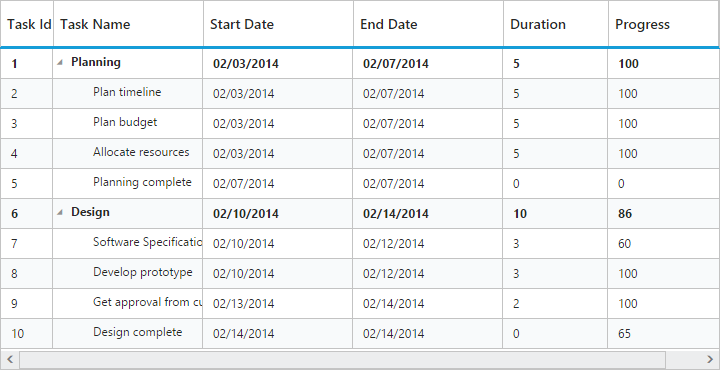
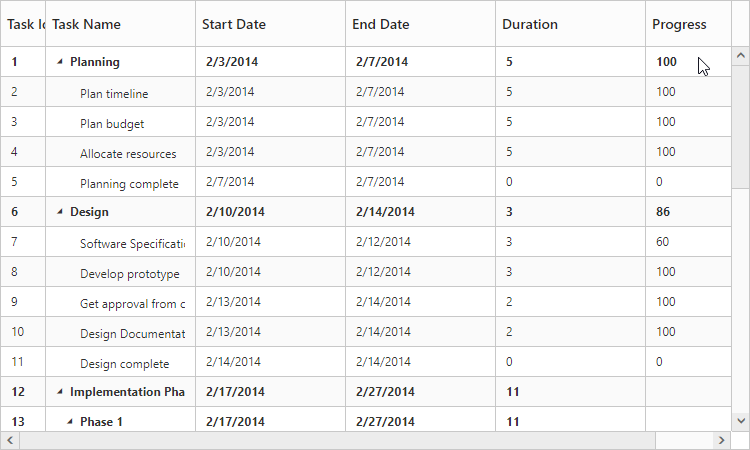
UG Document for TreeGrid Load on demand support

diff --git a/js/TreeGrid/Data-Binding.md b/js/TreeGrid/Data-Binding.md
@@ -86,73 +86,38 @@ TreeGrid is rendered from Self-Referential data structures by providing two fiel
 
 {% highlight js %}
 
-     var projectData1 = [
-
-         {
-             taskID: 1,
-             taskName: "Task 1",
-             startDate: "02/03/2014",
-             endDate: "03/07/2014",
-             duration: 5
-         },
-
-         {
-             taskID: 2,
-             pId: 1,
-             taskName: "Child Task 1",
-             startDate: "02/03/2014",
-             endDate: "02/07/2014",
-             duration: 5
-         },
-
-         {
-             taskID: 3,
-             pId: 1,
-             taskName: "Child Task 2",
-             startDate: "02/03/2014",
-             endDate: "02/07/2014",
-             duration: 5,
-             progress: "100"
-         },
-
-         {
-             taskID: 22,
-             pId: 2,
-             taskName: "Sub Child Task 1",
-             startDate: "02/03/2014",
-             endDate: "02/07/2014",
-             duration: 5
-         },
-
-         {
-             taskID: 23,
-             pId: 2,
-             taskName: "Sub Child Task 2",
-             startDate: "02/03/2014",
-             endDate: "02/07/2014",
-             duration: 5,
-             progress: "100"
-         },
-    
-         //...
-
-     ];
+      var projectData = [{
+        "TaskID": 1,
+        "TaskName": "Parent Task 1",
+        "StartDate": new Date("02/23/2014"),
+        "EndDate": new Date("02/27/2014"),
+        "Progress": "40"
+    },
+    {
+        "TaskID": 2,
+        "TaskName": "Child Task 1",
+        "StartDate": new Date("02/23/2014"),
+        "EndDate": new Date("02/27/2014"),
+        "Progress": "40",
+        "parentID": 1
+    },
+    //...
+];
 
      $(function () {
 
             $("#TreeGridContainer").ejTreeGrid({
-                dataSource: projectData1,
-                childMapping: "subtasks",
+                dataSource: projectData,
                 treeColumnIndex:1,
-                idMapping:"taskID",
-                parentIdMapping:"pId",
+                idMapping:"TaskID",
+                parentIdMapping:"parentID",
                 columns: [
-                    { field: "taskID", headerText: "Task Id", width: "45" },
-                    { field: "taskName", headerText: "Task Name" },
-                    { field: "startDate", headerText: "Start Date" },
-                    { field: "endDate", headerText: "End Date" },
-                    { field: "duration", headerText: "Duration" },
-                    { field: "progress", headerText: "Progress" }
+                    { field: "TaskID", headerText: "Task Id", width: "45" },
+                    { field: "TaskName", headerText: "Task Name" },
+                    { field: "StartDate", headerText: "Start Date" },
+                    { field: "EndDate", headerText: "End Date" },
+                    { field: "Duration", headerText: "Duration" },
+                    { field: "Progress", headerText: "Progress" }
                 ]
             })
         });
@@ -163,4 +128,115 @@ TreeGrid is rendered from Self-Referential data structures by providing two fiel
 The following screenshot shows the output of the above steps,
 
 ![](/js/TreeGrid/Data-Binding_images/Data-Binding_img2.png)
+
+## Remote data binding
+
+### Load on demand
+
+TreeGrid provides `Load on Demand` support for rendering remote data. Load on demand is considered in TreeGrid for the following actions, 
+
+* Expanding root nodes.
+* Navigating pages, with paging enabled in TreeGrid.
+
+When load on demand is enabled, all the root nodes are rendered in collapsed state at initial load.
+
+When load on demand support is enabled in TreeGrid with paging, the current or active page’s root node alone will be rendered in collapsed state. On expanding the root node, the child nodes will be loaded from the remote server. 
+
+When a root node is expanded, its child nodes are rendered and are cached locally, such that on consecutive expand/collapse actions on root node, the child nodes are loaded from the cache instead from the remote server.
+
+Similarly, if the user navigates to a new page, the root nodes of that specific page, will be rendered with request to the remote server.
+
+N> 1. Load on demand support in TreeGrid can be enabled only for remote data.
+N> 2. For better initial load time performance, we need to define the “hasChildMapping” property.
+
+Load on demand support in TreeGrid can be enabled by the following ways,
+
+1. By enabling [`enableLoadOnDemand`](https://help.syncfusion.com/api/js/ejtreegrid#members:enableLoadOnDemand "enableLoadOnDemand") property of TreeGrid control
+2. By enabling **crossDomain** property while binding data source using ejDataManager control.
+
+The following code explains how to use Load on Demand in TreeGrid Control,
+
+{% highlight javascript %}
+
+$(function() {
+    var dataManager = ej.DataManager({
+        url: "http://js.syncfusion.com/demos/ejServices/Wcf/TreeGridGantt/TreeGantt.svc/SelfReferenceDatas",
+        crossDomain: true,
+    });
+    $("#TreeGridContainer").ejTreeGrid({
+        dataSource: dataManager,
+        idMapping: "TaskID",
+        parentIdMapping: "ParentID",
+        hasChildMapping: "isParent",
+        enableVirtualization: true,
+        columns: [{field: "TaskID", headerText: "Task Id", width: columnWidth},
+                  { field: "TaskName", headerText: "Task Name"},
+                  { field: "StartDate", headerText: "Start Date" },
+                  { field: "EndDate", headerText: "End Date” },   
+                  { field: "Progress", headerText: "Progress" }],
+
+    })
+});
+
+{% endhighlight %}
+
+The output for load on demand support in TreeGrid:
+
+![](/js/TreeGrid/Data-Binding_images/Data-Binding_img3.png)
+![](/js/TreeGrid/Data-Binding_images/Data-Binding_img4.png)
+
+The following code snippet shows on how to enable load on demand support using  [`enableLoadOnDemand`](https://help.syncfusion.com/api/js/ejtreegrid#members:enableLoadOnDemand "enableLoadOnDemand") property.
+
+{% highlight javascript %}
+
+
+$(function() {
+    var dataManager = ej.DataManager({
+        url: "http://js.syncfusion.com/demos/ejServices/Wcf/TreeGridGantt/TreeGantt.svc/SelfReferenceDatas"
+    });
+    $("#TreeGridContainer").ejTreeGrid({
+        enableLoadonDemand: true,
+        //...         
+    })
+});
+
+{% endhighlight %}
+
+The following output shows how load on demand works for expanding action
+
+![](/js/TreeGrid/Data-Binding_images/Data-Binding_img5.png)
+
+### Load at once:
+
+On remote data binding, for every action such as paging, sorting, filtering, the data will be fetched from remote server each time. To avoid requesting the data from the remote server for each action, we can set TreeGrid to load all the data on initialization and make all the data operations in client side. To enable this, we can use offline property of `ej.DataManager`. the following code example explains this.
+
+{% highlight javascript %}
+
+$(function() {
+    var dataManager = ej.DataManager({
+        url: "http://js.syncfusion.com/demos/ejServices/Wcf/TreeGridGantt/TreeGantt.svc/SelfReferenceDatas",
+        offline: true,
+    });
+    $("#TreeGridContainer").ejTreeGrid({
+        dataSource: dataManager,
+        idMapping: "TaskID",
+        parentIdMapping: "ParentID",
+        hasChildMapping: "isParent",
+        enableVirtualization: true,
+        columns: [{field: "TaskID", headerText: "Task Id", width: columnWidth},
+                  { field: "TaskName", headerText: "Task Name"},
+                  { field: "StartDate", headerText: "Start Date" },
+                  { field: "EndDate", headerText: "End Date” },   
+                  { field: "Progress", headerText: "Progress" }],
+    })
+});
+
+{% endhighlight %}
+
+Please refer the [link](https://help.syncfusion.com/js/datamanager/data-binding#offline-mode "offline") for further reference on offline property
+
+**Limitations**:
+
+1. Mapping the expand state of a record using `expandStateMapping` property is not supported in load on demand feature.
+2. If a root or parent node is in collapsed state (child nodes not yet loaded), then that parent node will not be expanded while inserting new child to that parent node using toolbar icon or drag and drop actions.
 
